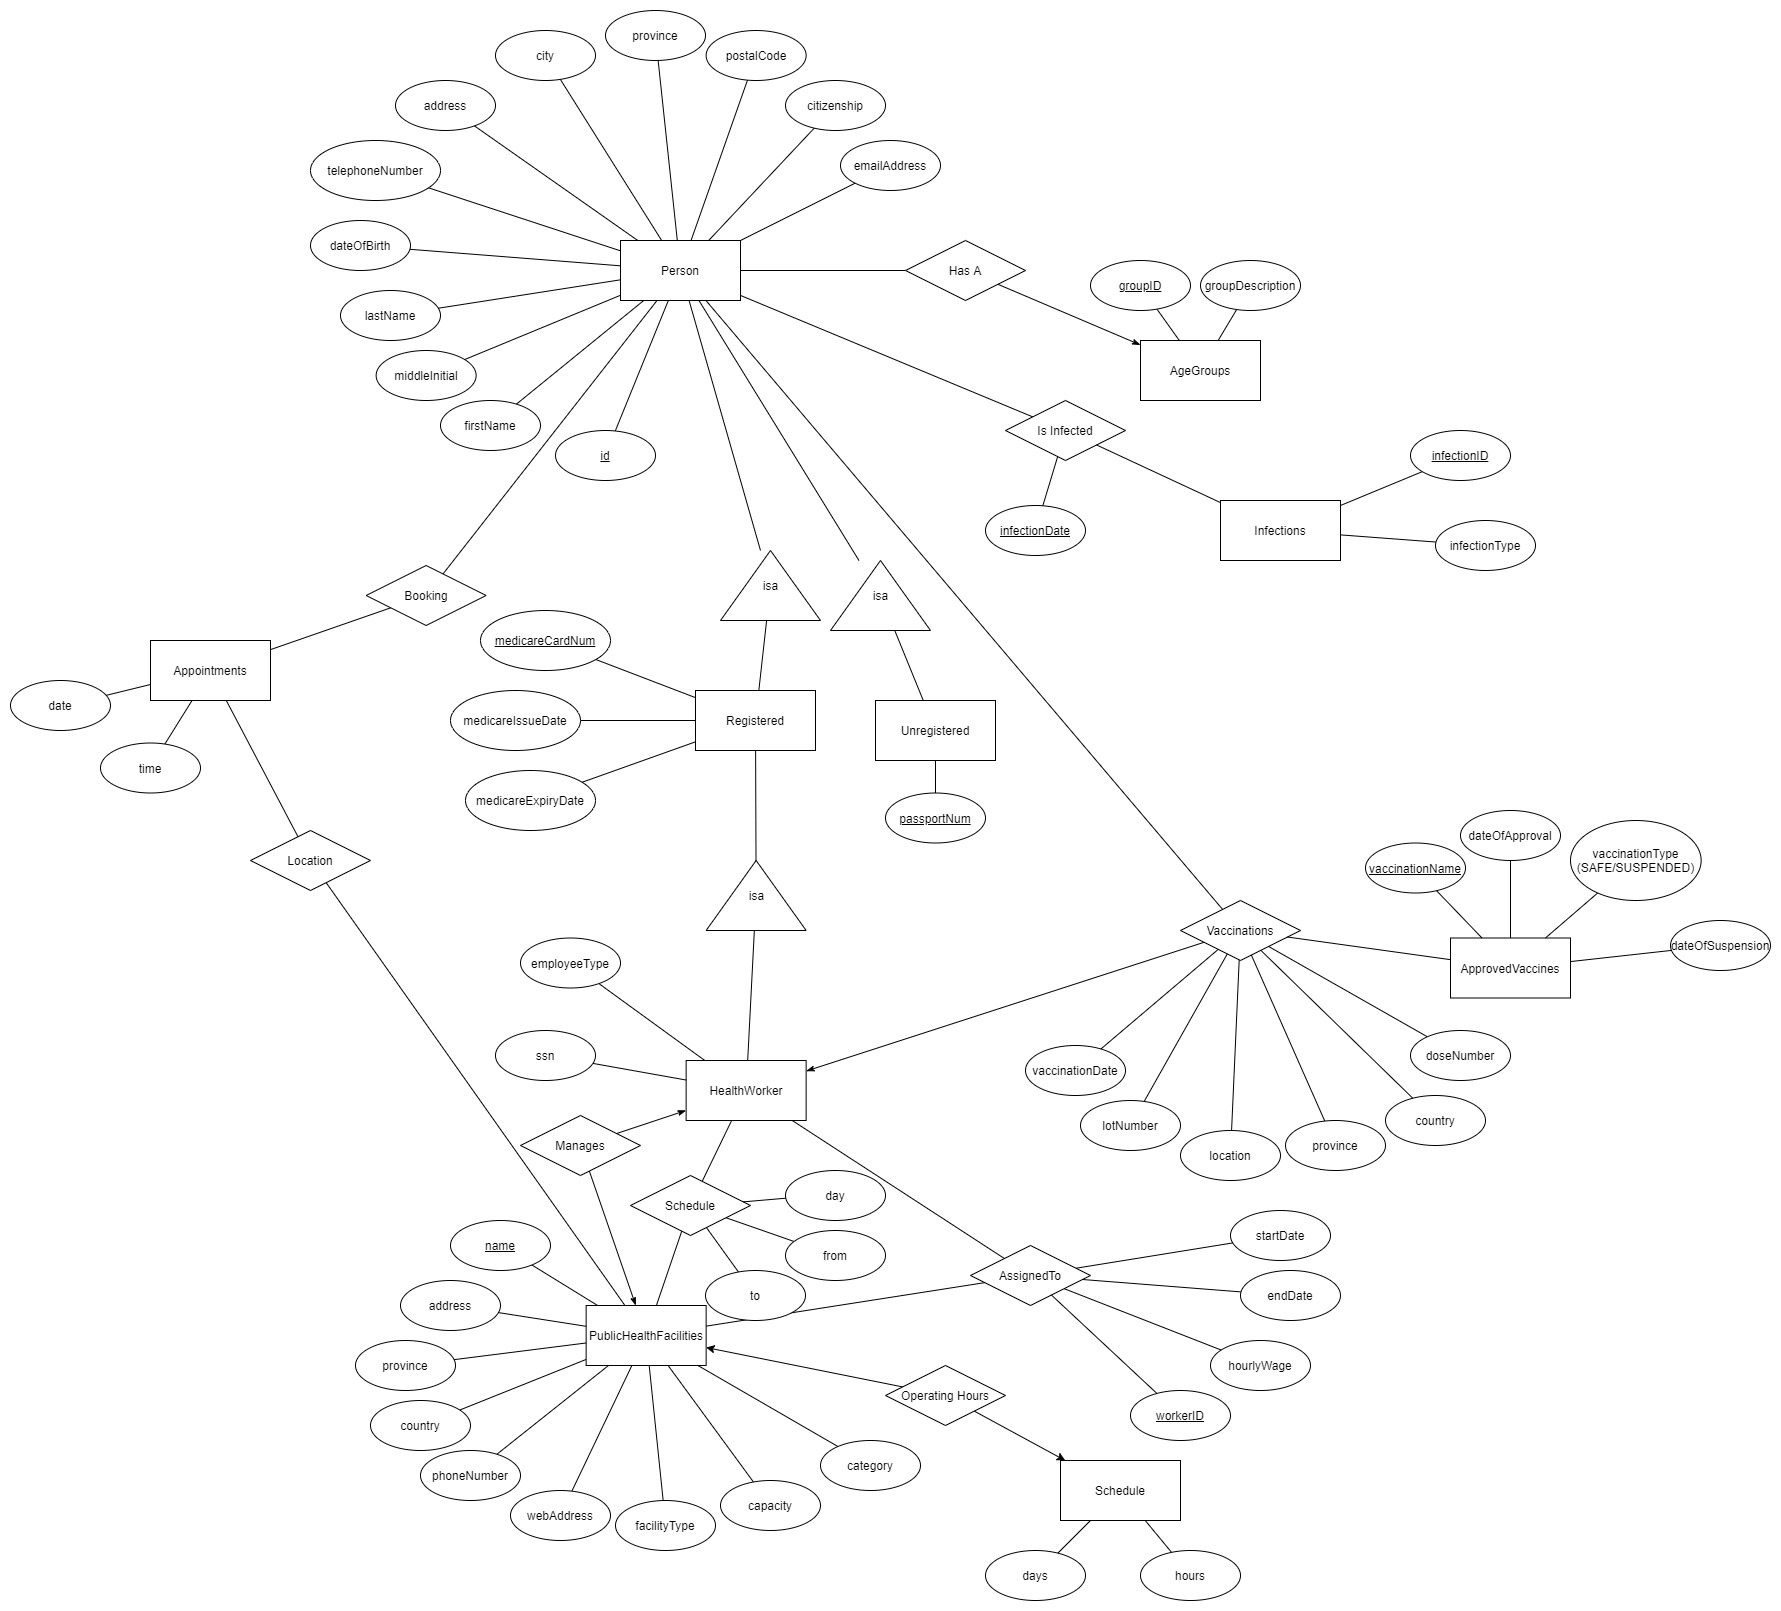
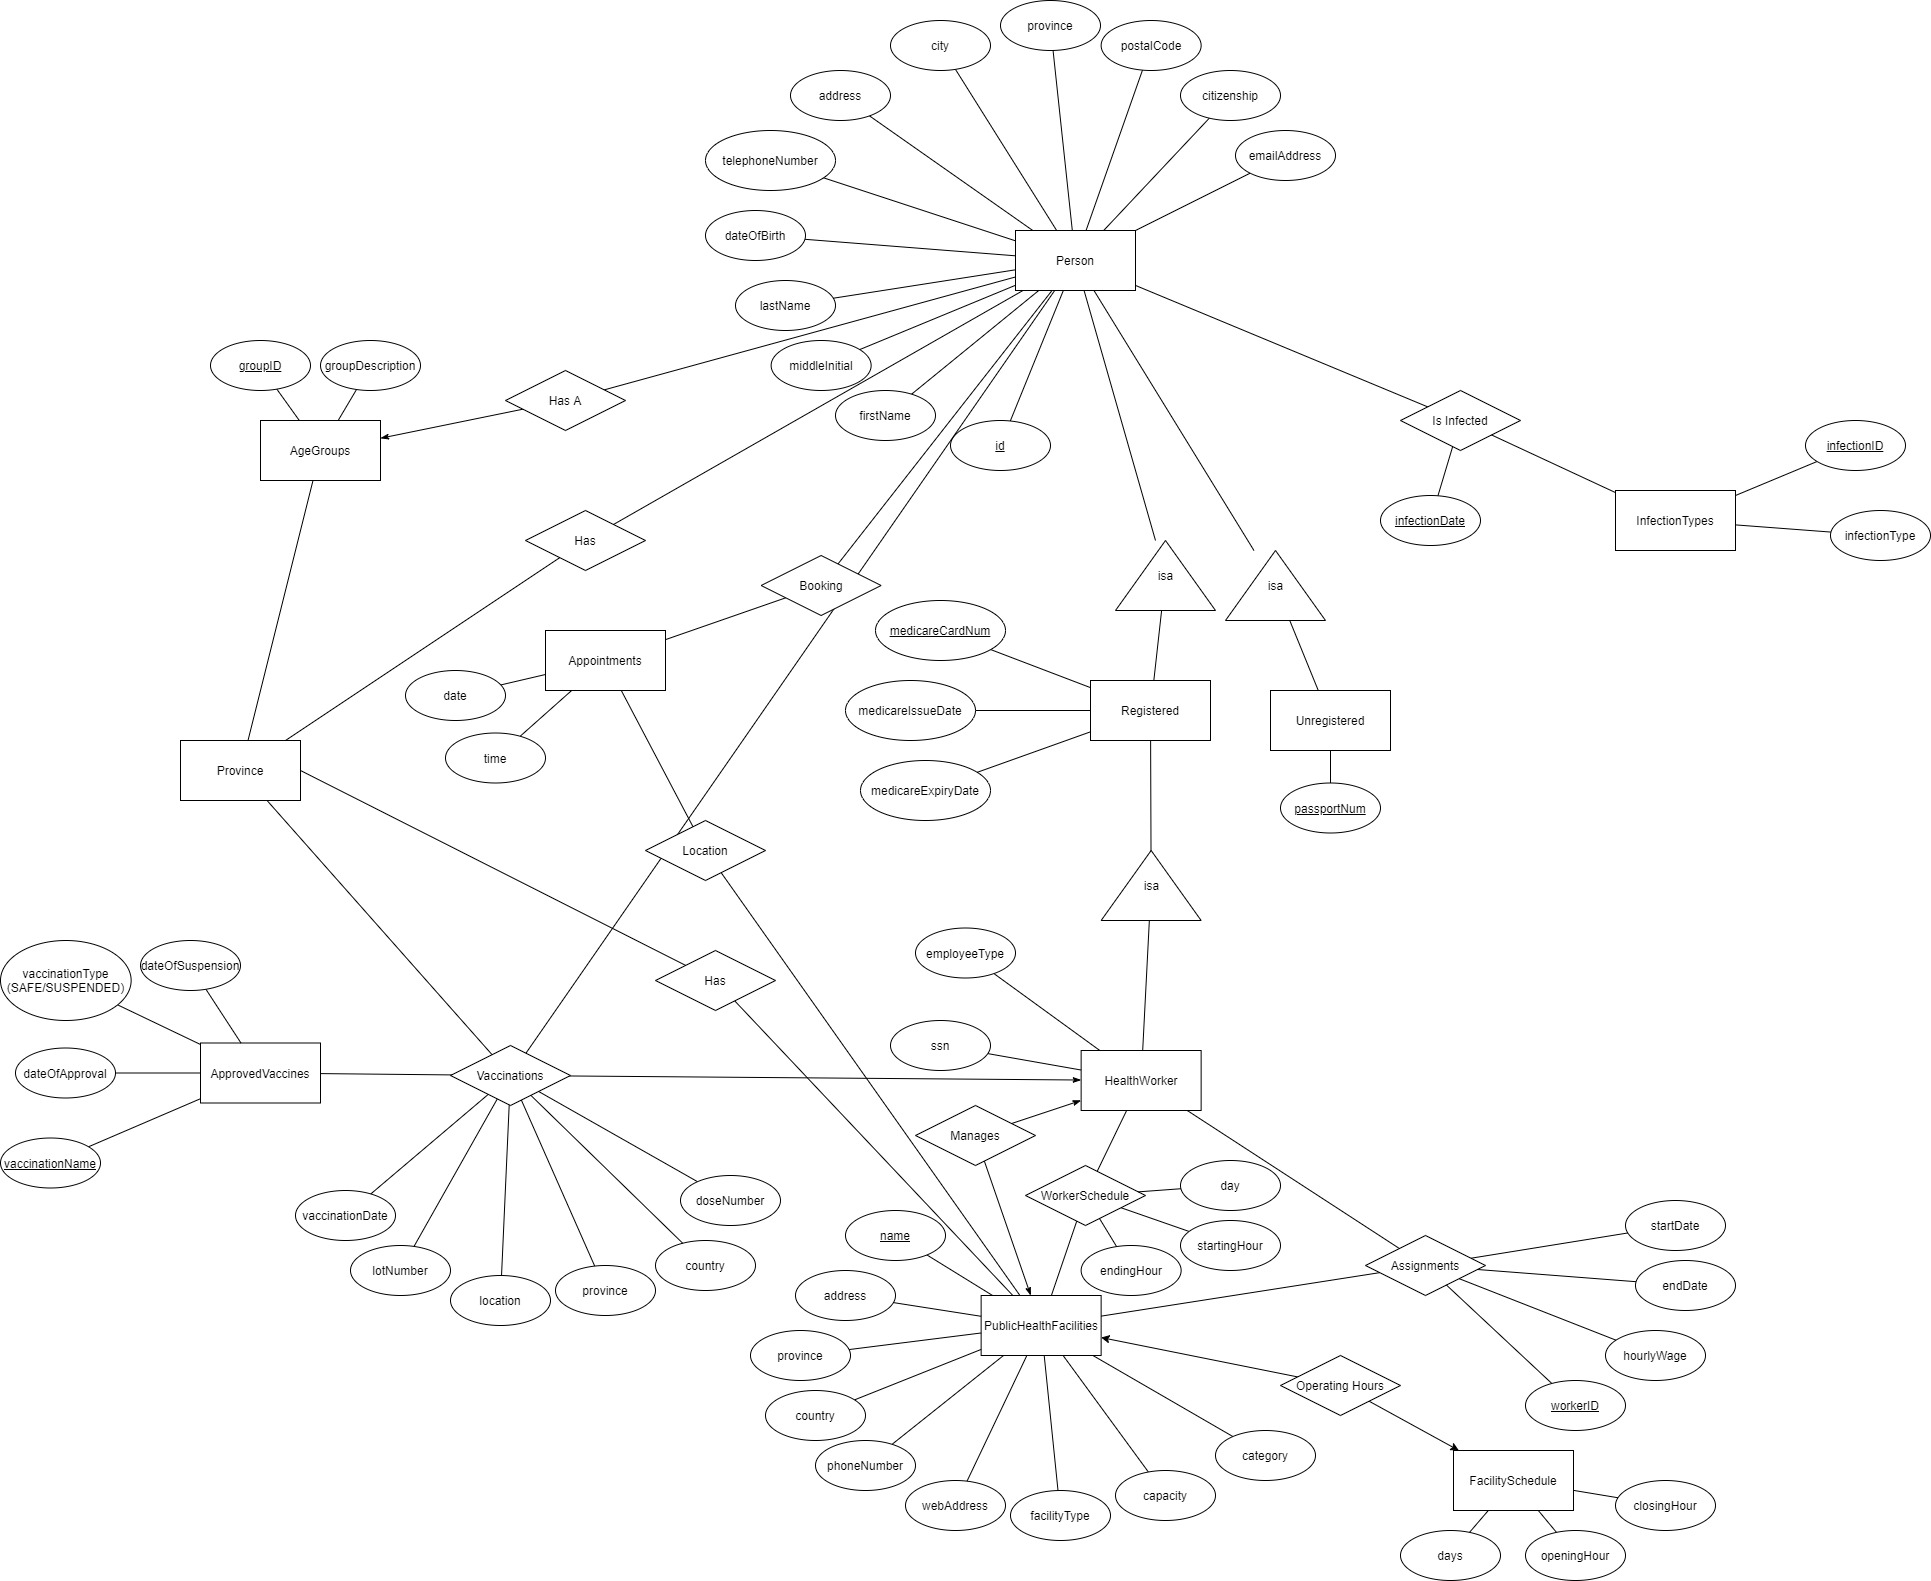
finished diagram and relationship schema

diff --git a/schema.md b/schema.md
@@ -1,11 +1,15 @@
 # Relational Schema
-- Person(<ins>id</ins>, firstName, lastName, dateOfBirth, telephoneNumber, address, city, province, postalCode, citizenship, emailAddress, ageGroupID)
+- Person(<ins>id</ins>, firstName, middleInitial, lastName, dateOfBirth, telephoneNumber, address, city, province, postalCode, citizenship, emailAddress, ageGroupID)
 - Registered(id, <ins>medicareCardNum</ins>, medicareIssueDate, medicareExpiryDate)
 - Unregistered(id, <ins>passportNum</ins>)
 - AgeGroup(<ins>groupID</ins>, groupDescription)
-- InfectionHistory(<ins>personID</ins>, <ins>infectionDate</ins>)
-- HealthWorker(<ins>workerID</ins>, id, employeeType)
-- PublicHealthFacilities(<ins>name</ins>, address, province, country, phoneNumber, webAddress, facilityType, capacity, managerID)
-- Assignments(<ins>workerID</ins>, <ins>facilityName</ins>, startDate, endDate)
+- InfectionHistory(<ins>personID</ins>, <ins>infectionDate</ins>, type)
+- InfectionTypes(<ins>name</ins>)
+- HealthWorker(<ins>id</ins>, ssn, employeeType)
+- PublicHealthFacilities(<ins>name</ins>, address, province, country, phoneNumber, webAddress, facilityType, category, capacity, managerID)
+- FacilitySchedule(<ins>name</ins>, days, openingHour, closingHour)
+- WorkerSchedule(<ins>workerID</ins>, <ins>facilityName</ins>, day, startingHour, endingHour)
+- Assignments(<ins>pID</ins>, <ins>startDate</ins>, workerID, hourlyWage <ins>facilityName</ins>, endDate)
 - ApprovedVaccinations(<ins>vaccinationName</ins>, dateOfApproval, vaccinationType, dateOfSuspension)
 - Vaccinations(<ins>id</ins>, healthWorkerID, vaccinationName, <ins>vaccinationDate</ins>, lotNumber, location, province, country, doseNumber)
+- Province(<ins>name</ins>, ageGroup)
